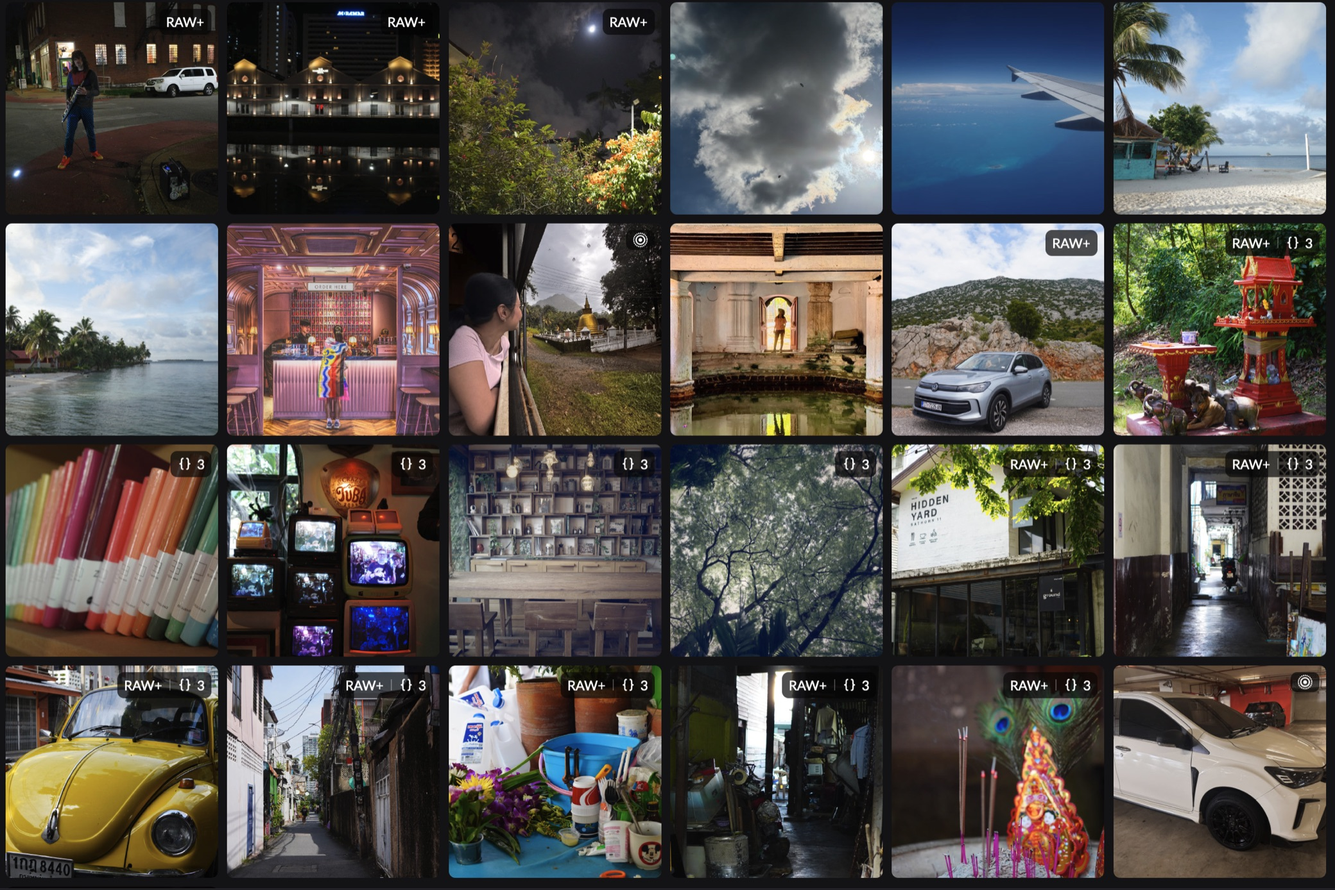
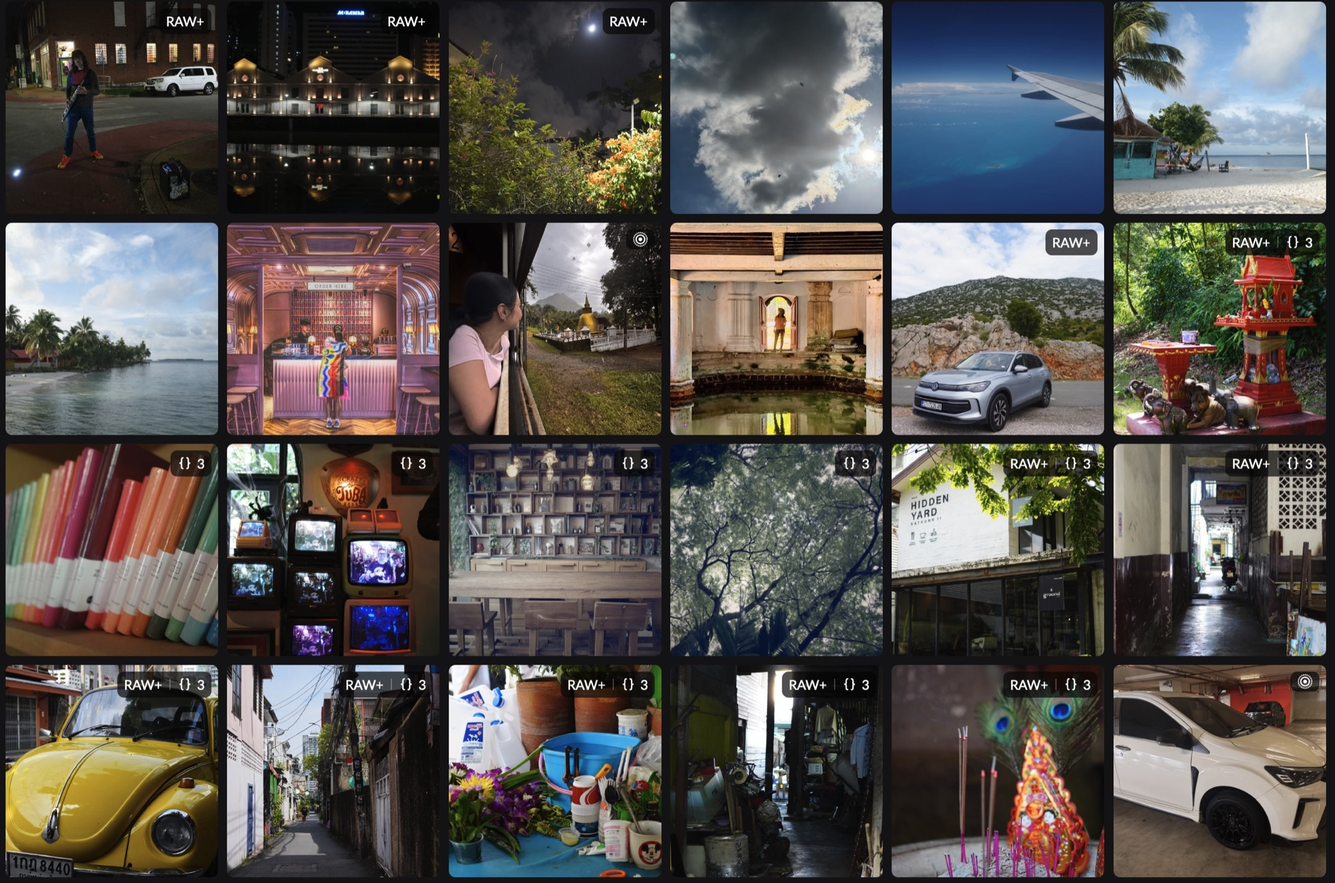
Add a README, and update the hero screenshot
The README has the app icon at the top, then what 1k Words does, where
it's up to, how to build it (with the LGPL FFmpeg), a library's folder
layout, plugins, the website and the licence.

The hero's screenshot is re-cropped, so its proportions are updated.

diff --git a/site/app/page.tsx b/site/app/page.tsx
@@ -109,7 +109,7 @@ export default function Home() {
           <Shot
             className={styles.heroShot}
             src="library-grid.jpg"
-            ratio={2080 / 1388}
+            ratio={2080 / 1377}
             eager
             alt="The library grid, its tiles badged RAW+ for raw and JPEG pairs, with three-shot brackets stacked into single tiles and Live Photos marked"
             caption="Library · square grid · brackets badged by frame count"

diff --git a/README.md b/README.md
@@ -1,0 +1,160 @@
+<p align="center"><img src="assets/app-icon/icon.svg" width="128" alt="1k Words"></p>
+
+<h1 align="center">1k Words</h1>
+
+<p align="center">A picture is worth 1000 words, make sure you can find the right one</p>
+
+For photographers who'd rather be shooting than sorting. Brackets stack themselves, search finds what's in your photos, and syncing just works, so you can focus on the stories your pictures tell.
+
+1k Words is a native photo library app for macOS, written in Rust on GPUI, through gpui-kit. It's free and open source under the [LGPL-3.0](COPYING.LESSER).
+
+## Features
+
+### Stacks
+
+1k Words reads each photo's exposure details and keeps the frames of one moment together, as one tile in the grid ([`src/photos.rs`](src/photos.rs)). Frames are only stacked when they come from the same camera at the same dimensions.
+
+- **Exposure brackets.** Shots seconds apart at different exposures become one stack, with the middle exposure as its cover. Every frame's exposure must differ from the others', so back-to-back brackets are split where the exposures start over.
+- **Bursts.** Frames shot moments apart at the same exposure are kept together, from any camera, not only an iPhone. The burst ends where the exposure changes or the shooting pauses.
+- **RAW+JPEG.** A raw file and the JPEG saved beside it are one photo, marked RAW+.
+- **Live Photos.** A photo and its video are one photo, paired by name or, when renamed, by Apple's content identifier. The video plays when you hover over it, HDR video included.
+
+### Libraries
+
+- A library is a plain folder you can open in Finder, on your Mac or an external drive, with its originals filed by the day they were taken. Keep as many as you like, side by side in the sidebar.
+- Originals are read-only on disk, so another app or a stray drag in Finder can't change or delete them by accident ([`src/library/protect.rs`](src/library/protect.rs)).
+- Each library has a catalog of its photos and their metadata. Everything in it apart from albums can be read again from the originals.
+- Libraries can be moved or deleted from Settings; a deleted library goes to the Trash.
+
+### Importing
+
+- Cards, USB drives and cameras that mount as disks appear in the sidebar, as in Apple's Photos, and can be ejected from there ([`src/devices`](src/devices/mod.rs)).
+- Import copies photos from a device or a folder into a library, optionally into an album ([`src/library/import.rs`](src/library/import.rs)).
+- Photos already in the library (by content) are skipped.
+- Each file is copied into a staging folder and moved into `Originals/YYYY/MM/DD` once it's complete, so a failed or interrupted import never leaves a half-copied file among the originals.
+
+### Viewing
+
+- The grid is a masonry layout that only draws the photos in view, so a big library scrolls as easily as a small one.
+- **Quick preview.** Press Space to see the selected photo over the grid, with its main exposure details and every frame of a bracket or burst along the bottom ([`src/quick_preview.rs`](src/quick_preview.rs)).
+- **Viewer.** A zoomable view of one photo, a sidebar with its details (file, camera, lens, exposure and location), and a filmstrip of every frame for brackets and bursts.
+- Photos show their embedded preview straight away, then the full image. Zoomed in past the fitted size, the photo is decoded at full resolution and only the tiles in view are drawn ([`src/tiles.rs`](src/tiles.rs)).
+- Formats: camera raw (through [rawler](https://github.com/dnglab/dnglab)), HEIC and HEIF (through libheif), JPEG, PNG, WebP, GIF, BMP and TIFF, and Live Photo videos (through FFmpeg).
+- On macOS, Live Photo video is hardware decoded with VideoToolbox and stays on the GPU ([`src/video`](src/video/mod.rs)).
+- While photos upload, the Dock icon's bottom crop marks become a progress bar ([`src/dock_icon.rs`](src/dock_icon.rs)).
+
+### Search by what's in them
+
+Objects such as people, dogs and cars are found in each photo's thumbnail, by the detector chosen in Settings ([`src/detect.rs`](src/detect.rs)):
+
+- **On this device:** YOLO11, run by ONNX Runtime (with Core ML on macOS) in a helper process. The model is downloaded the first time it's needed and checked against its known hash. Only the model is downloaded: photos never leave the device.
+- **Through a plugin:** such as the built-in one for vision models behind an OpenAI-compatible API ([`plugins/openai-vision`](plugins/openai-vision)): OpenAI, services that copy its API, or a server on your own computer or network, such as Ollama or LM Studio.
+
+Each detector's findings are kept apart in the catalog. The gallery's search field finds them, suggesting the kinds found so far as you type, and the viewer's info sidebar lists them and draws boxes around them.
+
+### Albums
+
+- Albums nest like folders, and one can show the photos of the albums inside it. A photo can be in any number of albums.
+- Add photos by importing into an album, from the gallery's right-click menu, by dragging the selection onto one, or from the viewer's albums menu.
+- A copy of the albums is kept in the library's `Catalog` folder, so they travel with it, and they're restored from it into a catalog that has none.
+
+### Sync and backup
+
+- **Sync targets.** Back a library up to any S3-compatible storage (AWS, Cloudflare R2, Backblaze B2, MinIO, Wasabi and others) through the built-in S3 plugin ([`plugins/s3`](plugins/s3)). Targets are set up on the Sync page in Settings, and each library chooses its targets on the Libraries page. A library can sync to several targets, and targets can be shared by libraries, each in its own folder ([`src/library/sync.rs`](src/library/sync.rs)).
+- Big files are uploaded in parts. On macOS, targets' settings, credentials included, are kept in the keychain.
+- **Catalog sync between Macs.** Set a catalog server (a turso-sync server) in Settings, and each open library's catalog syncs shortly after startup, every minute, after imports and with Sync Now ([`src/catalog_sync.rs`](src/catalog_sync.rs)). Each device can change the catalog while offline. If an album was deleted on one device and changed on another, you're asked which you meant.
+- **Thumbnails first, originals on demand.** Thumbnails, previews and Live Photo posters are uploaded ahead of the originals. Another device downloads all of them, so it can show the whole library, and fetches an original only when it's opened ([`src/library/download.rs`](src/library/download.rs)). Photos whose originals aren't on the device are marked in the grid and viewer.
+- **Pins.** Keep a photo, or an album, on this device, and its originals stay here ([`src/library/on_device.rs`](src/library/on_device.rs)). Originals that were only opened join a pool kept to a budget, evicting those wanted longest ago.
+
+### Compared with Apple Photos
+
+Only the differences, as far as we know. Apple Photos is a lovely place for iPhone pictures; 1k Words is for when your photos come off a memory card.
+
+| | 1k Words | Apple Photos |
+| --- | --- | --- |
+| Exposure brackets | One tile per bracket, from any camera, with the middle exposure on top | One photo per frame |
+| Bursts from a camera | One tile per burst, found by timing and exposure, from any camera | Grouped only when the iPhone marked them as a burst |
+| Where originals live | Plain folders by day, such as `Originals/2026/10/15`, on any drive | Inside the Photos library package |
+| Several libraries | Side by side in the sidebar, each on its own drive | One at a time, chosen as Photos opens |
+| Backup and sync | Your own S3-compatible bucket, through sandboxed plugins | iCloud Photos |
+| Source code | Open source, under the LGPL-3.0 | Closed |
+
+## Status
+
+1k Words is macOS first. There's no download yet, so for now you build it from source.
+
+Still to come (see [`TODO.md`](TODO.md) for the full list):
+
+- **Free Up Space.** Removing originals that are safely synced, to keep a library within a budget set in Settings, is built but doesn't remove anything yet: it waits until the catalog itself is known to be synced ([`src/library/free_space.rs`](src/library/free_space.rs), KW-45).
+- **Release builds.** The macOS release build (KW-48), with an LGPL-only FFmpeg (KW-6) and the native libraries bundled. Windows and Linux release builds aren't done yet (KW-49).
+- **Other platforms.** Removable devices in the sidebar are macOS only. Elsewhere, Live Photo video is decoded in software, and sync targets' settings are kept as plain JSON rather than in a secure store.
+- **Sync.** Syncing files in the background rather than only with Sync Now, resuming big uploads, and a way to install and review plugins from users.
+- **Object detection.** Asking before downloading the model, progress for the first scan of a big library, and refreshing search results as the scan finds more.
+- **Albums.** Syncing the albums' copy with the photos, and rebuilding a lost catalog from the originals.
+- **Automatic updates.**
+
+## Building from source
+
+You'll need [Rust](https://rustup.rs) and [Homebrew](https://brew.sh). rustup picks up the toolchain, and the `wasm32-wasip2` target the plugins are built for, from [`rust-toolchain.toml`](rust-toolchain.toml).
+
+```sh
+brew install ffmpeg libheif pkg-config
+git clone https://github.com/Mellow-Technology/1k-words
+cd 1k-words
+cargo run --release
+```
+
+FFmpeg decodes Live Photo videos and libheif decodes HEIC photos. [`build.rs`](build.rs) builds the built-in plugins in [`plugins`](plugins) into WebAssembly components, which the app embeds.
+
+`cargo bundle --release` (with [cargo-bundle](https://github.com/burtonageo/cargo-bundle)) builds the `.app`.
+
+### An LGPL-only FFmpeg
+
+Homebrew's FFmpeg is built with GPL components, so releases will use their own. [`scripts/build-ffmpeg.sh`](scripts/build-ffmpeg.sh) builds FFmpeg 9.0.2, LGPL only and with just what the app uses, into `target/ffmpeg/9.0.2` (macOS only for now). Build against it with `FFMPEG_DIR`:
+
+```sh
+scripts/build-ffmpeg.sh
+FFMPEG_DIR=$PWD/target/ffmpeg/9.0.2 cargo build --release
+```
+
+Development builds without `FFMPEG_DIR` still use Homebrew's.
+
+## A library's folder
+
+```text
+1K Words/
+  .1k-words-library
+  README.txt
+  Originals/2026/10/15/IMG_0001.HEIC
+  Originals/2026/10/15/IMG_0001.MOV
+  Thumbnails/2026/10/15/IMG_0001.HEIC.jpg
+  Previews/2026/10/15/IMG_0001.HEIC.jpg
+  Posters/2026/10/15/IMG_0001.MOV.jpg
+  Catalog/
+```
+
+- `.1k-words-library` marks the folder as a library, with its id.
+- `Originals` holds the photos as imported, filed by the day they were taken, read-only.
+- `Thumbnails`, `Previews` and `Posters` are derivatives, laid out like the originals ([`src/library/derivatives.rs`](src/library/derivatives.rs)). They can always be made again from the originals.
+- `Catalog` holds a copy of the library's albums.
+
+The catalog itself lives in the app's config directory, as `libraries/<id>.db`, and `libraries.json` there lists the libraries. What's only true on this device (which originals are here, when photos were last opened, what's pinned) is kept beside it in `libraries/<id>.device.db`, and is never synced.
+
+## Plugins
+
+Plugins are WebAssembly components, run with Wasmtime, that extend the app ([`src/plugins`](src/plugins/mod.rs)). Their interface is [`wit/plugins.wit`](wit/plugins.wit) (`onekwords:plugins@0.2.0`). There are two kinds:
+
+- **Sync plugins** copy a library's files to and from a service. They only move files: what's been synced where is recorded in the library's catalog.
+- **Detection plugins** find objects in photos, such as with a vision model on a service.
+
+Plugins are sandboxed: they get no file system, environment or sockets. They read and write files through handles the app gives them, and make HTTP requests through the app, only to the hosts their settings name.
+
+The built-in plugins are [`plugins/s3`](plugins/s3) and [`plugins/openai-vision`](plugins/openai-vision). More can be added as `.wasm` files in the app's `plugins` folder, though there's no way to install them from the app yet.
+
+## The website
+
+The marketing site is in [`site`](site): a Next.js static export built with [gui-mellow](https://github.com/Mellow-Technology/gui-mellow), published to GitHub Pages by [`.github/workflows/pages.yml`](.github/workflows/pages.yml). See [`site/README.md`](site/README.md) for running it and adding screenshots.
+
+## Licence
+
+1k Words is licensed under the GNU Lesser General Public License, version 3 only (LGPL-3.0-only). See [`COPYING.LESSER`](COPYING.LESSER) and [`COPYING`](COPYING).
